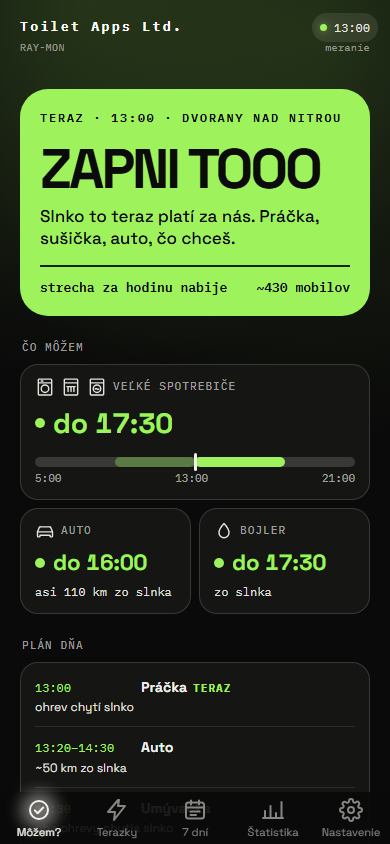
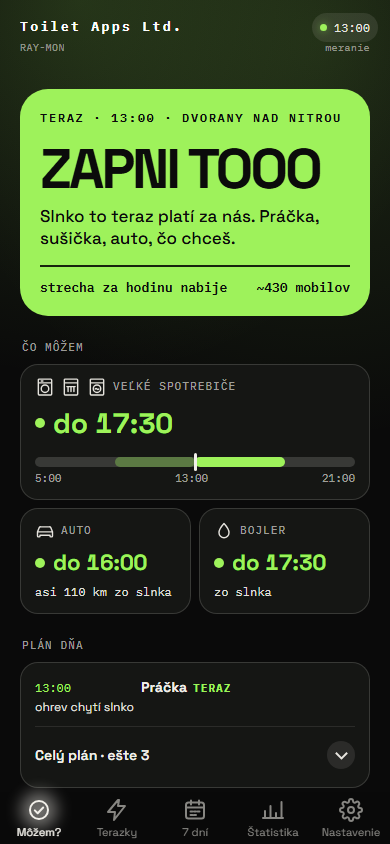
feat: Plán dňa na karte Môžem? zbalený na prvý riadok v oboch appkách (#360)
Doplnok k #359, ktorý bol zlúčený skôr, než sa do neho dostal tento
commit.

## Čo sa mení
**Obe appky: Plán dňa je rozbaľovací.** Zbalený ukáže len prvý riadok
(čo je na rade) a tlačidlo
„Celý plán · ešte N“, rozbalený všetky riadky s pätkou a tlačidlo „Skryť
plán“ (`aria-expanded`).
Pri každom otvorení appky je zbalený – `mozemPlanOpen` je nastavenie
vnútri karty, nie krok navigácie,
a neukladá sa (ako `tzListOpen`). Pri jedinom riadku tlačidlo nie je.
Texty tlačidla sú v jadre
(`PLAN_DNA_LESS`, `planDnaMoreText` v `shared/messages-core.js`).

Obloha má nové tlačidlo `#mz-plan-more` v HTML – zmiešanú cache rieši
`obloha/boot.js`.

## Overenie
- `npm run check` zelené.
- `npm run test:e2e`: 375 prešlo (zbalený stav, rozbalenie a zbalenie,
fokus na tlačidle po Enter, Plán dňa podľa spotrebičov doma).
- `npm run screenshots`: zmenila sa `docs/img/mozem.png`.
- Strom je zhodný s tým, na ktorom testy bežali (cherry-pick na `main`
bez rozdielu).

🤖 Generated with [Claude Code](https://claude.com/claude-code)

Changed region(s): [[0.0923, 0.8626, 0.3692, 0.9242], [0.3692, 0.8626, 0.4615, 0.8934], [0.8615, 0.8934, 0.8923, 0.9242]]

diff --git a/web/render/mozem.js b/web/render/mozem.js
@@ -3,7 +3,7 @@
 // do #mozem-body, panel je dialóg v index.html. Počíta shared/mozem.js, texty sú v shared/messages.js.
 
 import { escapeHtml, minutesToTimeStr } from '../../shared/format.js';
-import { MOZEM_SKY_TEXTS, NO_LIVE_FACT, PLAN_DNA_NOW, PLAN_DNA_TITLE } from '../../shared/messages.js';
+import { MOZEM_SKY_TEXTS, NO_LIVE_FACT, PLAN_DNA_LESS, PLAN_DNA_NOW, PLAN_DNA_TITLE, planDnaMoreText } from '../../shared/messages.js';
 import { mozemModel, mozemSheetOf } from '../../shared/mozem.js';
 import { planDnaModel } from '../../shared/plan-dna.js';
 import { neplatiOf } from '../../shared/pristup.js';
@@ -67,10 +67,16 @@ function tilesHtml(m) {
     );
 }
 
-/** Plán dňa pod dlaždicami: čas, spotrebič a prečo. Bez plánu (načítava sa, bez predpovede) nie je. @param {PlanModel} plan */
-function planHtml(plan) {
+/**
+ * Plán dňa pod dlaždicami: čas, spotrebič a prečo. Bez plánu (načítava sa, bez predpovede) nie je.
+ * Zbalený ukáže len prvý riadok (čo je na rade) a tlačidlo, ktoré rozbalí ostatné aj s pätkou.
+ * @param {PlanModel} plan @param {boolean} open
+ */
+function planHtml(plan, open) {
     if (!plan || !plan.rows.length) return '';
-    const rows = plan.rows.map(
+    const more = plan.rows.length - 1;
+    const shown = open || !more ? plan.rows : plan.rows.slice(0, 1);
+    const rows = shown.map(
         (r) =>
             `<li data-tone="${r.tone}"><span class="mozem-plan-t">${escapeHtml(r.time)}</span>` +
             `<span class="mozem-plan-n">${escapeHtml(r.name)}${r.now ? `<em>${escapeHtml(PLAN_DNA_NOW)}</em>` : ''}</span>` +
@@ -78,17 +84,23 @@ function planHtml(plan) {
     );
     return (
         `<section class="mozem-plan" aria-labelledby="mozem-plan-ttl"><h3 id="mozem-plan-ttl" class="mozem-plan-ttl">${escapeHtml(PLAN_DNA_TITLE)}</h3>` +
-        `<div class="mozem-plan-box"><ol class="mozem-plan-list">${rows.join('')}</ol><p class="mozem-plan-note">${escapeHtml(plan.note)}</p></div></section>`
+        `<div class="mozem-plan-box"><ol id="mozem-plan-list" class="mozem-plan-list">${rows.join('')}</ol>` +
+        (open || !more ? `<p class="mozem-plan-note">${escapeHtml(plan.note)}</p>` : '') +
+        (more
+            ? `<button type="button" class="mozem-plan-more" data-mozem-plan aria-expanded="${open}" aria-controls="mozem-plan-list">` +
+              `<span>${escapeHtml(open ? PLAN_DNA_LESS : planDnaMoreText(more))}</span><span class="tz-chev" aria-hidden="true"></span></button>`
+            : '') +
+        `</div></section>`
     );
 }
 
 /**
  * Hlavná obrazovka karty z modelu. `kick` je riadok nad slovom („Teraz · 13:00 · Dvorany“),
- * `plan` plán dňa pod dlaždicami.
- * @param {MozemModel} m @param {string} kick @param {PlanModel} [plan]
+ * `plan` plán dňa pod dlaždicami, `planOpen` či je rozbalený.
+ * @param {MozemModel} m @param {string} kick @param {PlanModel} [plan] @param {boolean} [planOpen]
  */
-export function mozemHtml(m, kick, plan = null) {
-    return heroHtml(m, kick) + tilesHtml(m) + (m.list ? planHtml(plan) : '');
+export function mozemHtml(m, kick, plan = null, planOpen = false) {
+    return heroHtml(m, kick) + tilesHtml(m) + (m.list ? planHtml(plan, planOpen) : '');
 }
 
 /** Riadky panelu skupiny: meno, krátka odpoveď a prečo. @param {MozemModel['items']} rows */
@@ -172,6 +184,10 @@ export function closeMozemSheet(dom) {
 export function renderMozem(state, dom) {
     const m = modelOf(state);
     const kick = `Teraz · ${minutesToTimeStr(localMinutes(state.now, state.site.timezone))} · ${state.site.name}`;
-    writeHtml(dom.mozemBody, mozemHtml(m, kick, planDnaModel(state, { devices: state.oznamenia.devices })), 'mozemBody');
+    writeHtml(
+        dom.mozemBody,
+        mozemHtml(m, kick, planDnaModel(state, { devices: state.oznamenia.devices }), state.mozemPlanOpen),
+        'mozemBody',
+    );
     renderSheet(mozemSheetOf(m, state.mozemItem), dom);
 }

diff --git a/test/e2e/app.spec.js b/test/e2e/app.spec.js
@@ -41,7 +41,15 @@ import { doplnSucty, suctyZdroj } from '../../shared/sucty.js';
 import { mozemModel } from '../../shared/mozem.js';
 import { planDnaModel } from '../../shared/plan-dna.js';
 import { summaryModel } from '../../shared/summary.js';
-import { dayWindowCard, MOZEM_SKY_TEXTS, mozemListTitle, terazTypicalText, weekMessage } from '../../shared/messages.js';
+import {
+    dayWindowCard,
+    MOZEM_SKY_TEXTS,
+    mozemListTitle,
+    PLAN_DNA_LESS,
+    planDnaMoreText,
+    terazTypicalText,
+    weekMessage,
+} from '../../shared/messages.js';
 import { settingsFromLink, shareUrl, startFromLink, toUser, typicalSettings } from '../../shared/settings.js';
 import { buildForecast, localDateKey, localMinutes, sunTimes } from '../../shared/solar.js';
 import { LINK_ERRORS } from '../../shared/setup-texts.js';
@@ -3092,16 +3100,32 @@ test.describe('karta Môžem?', () => {
         expect(errors).toEqual([]);
     });
 
-    test('o 13:00 plán dňa pod dlaždicami podľa modelu, bez ceny pri spotrebičoch', async ({ page }) => {
+    test('o 13:00 plán dňa pod dlaždicami podľa modelu: zbalený na prvý riadok, tlačidlo rozbalí a zbalí, bez ceny pri spotrebičoch', async ({
+        page,
+    }) => {
         const errors = await openApp(page);
         await page.locator('#nav-mozem').click();
         await ocakavajKartu(page, 'mozem');
         const plan = planDnaModel({ ...OWNER, now: FIXED_NOW, loading: false, pv, forecast: forecastAt(FIXED_NOW) });
         const rows = plan?.rows ?? [];
-        expect(rows.length).toBeGreaterThan(0);
+        expect(rows.length).toBeGreaterThan(1);
+        const more = page.locator('.mozem-plan-more');
+        const riadky = rows.map((r) => `${r.time}${r.name}${r.now ? 'teraz' : ''}${r.why}`);
         await expect(page.locator('#mozem-plan-ttl')).toHaveText('Plán dňa');
-        await expect(page.locator('.mozem-plan-list li')).toHaveText(rows.map((r) => `${r.time}${r.name}${r.now ? 'teraz' : ''}${r.why}`));
+        await expect(page.locator('.mozem-plan-list li')).toHaveText(riadky.slice(0, 1));
+        await expect(page.locator('.mozem-plan-note')).toHaveCount(0);
+        await expect(more).toHaveText(planDnaMoreText(rows.length - 1));
+        await expect(more).toHaveAttribute('aria-expanded', 'false');
+        // Z klávesnice: fokus ostane na tlačidle aj po prekreslení karty.
+        await more.focus();
+        await page.keyboard.press('Enter');
+        await expect(page.locator('.mozem-plan-list li')).toHaveText(riadky);
         await expect(page.locator('.mozem-plan-note')).toHaveText(plan?.note ?? '');
+        await expect(more).toHaveText(PLAN_DNA_LESS);
+        await expect(more).toHaveAttribute('aria-expanded', 'true');
+        await expect(more).toBeFocused();
+        await more.click();
+        await expect(page.locator('.mozem-plan-list li')).toHaveCount(1);
         for (const r of rows.filter((x) => x.id !== 'auto')) expect(r.why, r.id).not.toContain('€');
         expect(errors).toEqual([]);
     });

diff --git a/obloha/web/render/mozem.js b/obloha/web/render/mozem.js
@@ -3,7 +3,7 @@
 // shared/mozem-sky.js a texty sú v shared/messages.js - tu sa len zapisuje do DOM.
 
 import { escapeHtml, minutesToTimeStr } from '../../../shared/format.js';
-import { PLAN_DNA_NOW, PLAN_DNA_TITLE, voiceTexts } from '../../../shared/messages-core.js';
+import { PLAN_DNA_LESS, PLAN_DNA_NOW, PLAN_DNA_TITLE, planDnaMoreText, voiceTexts } from '../../../shared/messages-core.js';
 import { mozemSheetOf } from '../../../shared/mozem.js';
 import { mozemSkyModel } from '../../../shared/mozem-sky.js';
 import { shows } from '../state.js';
@@ -112,8 +112,11 @@ function rowsHtml(rows) {
         .join('');
 }
 
-/** Hlavná časť karty. @param {Model} m @param {Dom} dom @param {import('../../../shared/messages.js').Voice} voice */
-function renderCard(m, dom, voice) {
+/**
+ * Hlavná časť karty. @param {Model} m @param {Dom} dom @param {import('../../../shared/messages.js').Voice} voice
+ * @param {boolean} planOpen je Plán dňa rozbalený?
+ */
+function renderCard(m, dom, voice, planOpen) {
     const MOZEM_SKY_TEXTS = voiceTexts(voice).MOZEM_SKY_TEXTS;
     show(dom.mzArc, !!m.arc);
     if (m.arc) setHtml(dom.mzArc, arcSvg(m.arc, m.state === 'offline'));
@@ -140,13 +143,23 @@ function renderCard(m, dom, voice) {
     dom.mzList.classList.toggle('est', !!m.list?.estimate);
     setText(dom.mzListTitle, m.list ? m.list.title : '');
     setHtml(dom.mzItems, m.list ? tilesHtml(m.groups) : '');
-    renderPlan(m.list ? m.plan : null, dom);
+    renderPlan(m.list ? m.plan : null, planOpen, dom);
 }
 
-/** Plán dňa pod dlaždicami: čas, spotrebič a prečo. Bez plánu sa skryje. @param {Model['plan']} plan @param {Dom} dom */
-function renderPlan(plan, dom) {
-    const rows = plan ? plan.rows : [];
-    show(dom.mzPlan, rows.length > 0);
+/**
+ * Plán dňa pod dlaždicami: čas, spotrebič a prečo. Bez plánu sa skryje. Zbalený ukáže len prvý
+ * riadok (čo je na rade) a tlačidlo, ktoré rozbalí ostatné aj s pätkou.
+ * @param {Model['plan']} plan @param {boolean} open @param {Dom} dom
+ */
+function renderPlan(plan, open, dom) {
+    const all = plan ? plan.rows : [];
+    const more = all.length - 1;
+    const rows = open || more < 1 ? all : all.slice(0, 1);
+    show(dom.mzPlan, all.length > 0);
+    show(dom.mzPlanMore, more > 0);
+    show(dom.mzPlanNote, open || more < 1);
+    dom.mzPlanMore.setAttribute('aria-expanded', String(open));
+    setText(dom.mzPlanMoreText, open ? PLAN_DNA_LESS : planDnaMoreText(more));
     setText(dom.mzPlanTitle, PLAN_DNA_TITLE);
     setHtml(
         dom.mzPlanRows,
@@ -244,7 +257,7 @@ export function renderMozem(state, dom) {
         return renderSheet(null, dom);
     }
     const m = mozemSkyModel(state, { online: state.online, voice: state.voice, devices: state.oznamenia.devices });
-    renderCard(m, dom, state.voice);
+    renderCard(m, dom, state.voice, state.mozemPlanOpen);
     renderAnnounce(m, dom);
     renderSheet(mozemSheetOf(m, state.mozemItem), dom, state.voice);
 }

diff --git a/test/e2e/obloha.spec.js b/test/e2e/obloha.spec.js
@@ -18,7 +18,7 @@ import {
     TARIFF,
     WORKER_PV_URL,
 } from '../../shared/config.js';
-import { MOZEM_WORDS } from '../../shared/messages.js';
+import { MOZEM_WORDS, PLAN_DNA_LESS, planDnaMoreText } from '../../shared/messages.js';
 import { mozemSkyModel } from '../../shared/mozem-sky.js';
 import { cellAt, chartX, DAY_CHART, planCells } from '../../shared/day-chart.js';
 import { dayPlan } from '../../shared/day-plan.js';
@@ -711,13 +711,26 @@ test.describe('karta Môžem?', () => {
     }
 
     for (const hm of ['09:00', '13:00', '21:00']) {
-        test(`o ${hm} plán dňa pod dlaždicami podľa modelu, bez ceny pri spotrebičoch`, async ({ page }) => {
+        test(`o ${hm} plán dňa pod dlaždicami podľa modelu: zbalený na prvý riadok, tlačidlo rozbalí, bez ceny pri spotrebičoch`, async ({
+            page,
+        }) => {
             const errors = await openObloha(page, { time: at(hm) });
             const plan = modelKarty(at(hm)).plan;
             const rows = plan?.rows ?? [];
+            const riadky = rows.map((r) => `${r.time}${r.name}${r.now ? 'teraz' : ''}${r.why}`);
+            const more = page.locator('#mz-plan-more');
             await expect(page.locator('#mz-plan')).toBeVisible();
             await expect(page.locator('#mz-plan-title')).toHaveText('Plán dňa');
-            await expect(page.locator('#mz-plan-rows li')).toHaveText(rows.map((r) => `${r.time}${r.name}${r.now ? 'teraz' : ''}${r.why}`));
+            if (rows.length > 1) {
+                await expect(page.locator('#mz-plan-rows li')).toHaveText(riadky.slice(0, 1));
+                await expect(page.locator('#mz-plan-note')).toBeHidden();
+                await expect(more).toHaveText(planDnaMoreText(rows.length - 1));
+                await expect(more).toHaveAttribute('aria-expanded', 'false');
+                await more.click();
+                await expect(more).toHaveText(PLAN_DNA_LESS);
+                await expect(more).toHaveAttribute('aria-expanded', 'true');
+            } else await expect(more).toBeHidden();
+            await expect(page.locator('#mz-plan-rows li')).toHaveText(riadky);
             await expect(page.locator('#mz-plan-rows .row-t')).toHaveText(rows.map((r) => r.time));
             await expect(page.locator('#mz-plan-note')).toHaveText(plan?.note ?? '');
             for (const r of rows.filter((x) => x.id !== 'auto')) expect(r.why, r.id).not.toContain('€');

diff --git a/obloha/web/state.js b/obloha/web/state.js
@@ -11,7 +11,8 @@ import { setupInit } from '../../shared/setup-flow.js';
 /**
  * Stav. `mozemItem` je vec karty Môžem?, ktorej panel je otvorený (null = žiadny),
  * `terazPreview` čas náhľadu na grafe karty Teraz (minúta dňa, null = teraz),
- * `terazPage` stránka pásu odporúčaní pod ním, `tzListOpen` otvorený zoznam pod grafom (na začiatku zatvorený),`weekDetail` otvorený detail karty 7 dní (deň, týždeň,
+ * `terazPage` stránka pásu odporúčaní pod ním, `tzListOpen` otvorený zoznam pod grafom (na začiatku zatvorený),
+ * `mozemPlanOpen` rozbalený Plán dňa na karte Môžem? (na začiatku zbalený na prvý riadok),`weekDetail` otvorený detail karty 7 dní (deň, týždeň,
  * null = prehľad dní) a `weekDay` deň v ňom (index v predpovedi), `statsPeriod` obdobie karty Štatistika,
  * `online`, či má telefón internet - podľa toho karta bez dát povie prečo, `startPanel` karta, na ktorej
  * sa appka na tomto telefóne otvára, a `incoming` nastavenie z otvoreného odkazu, ktoré čaká na
@@ -34,6 +35,7 @@ import { setupInit } from '../../shared/setup-flow.js';
  *   terazPreview: number | null,
  *   terazPage: number,
  *   tzListOpen: boolean,
+ *   mozemPlanOpen: boolean,
  *   weekDetail: WeekDetail | null,
  *   weekDay: number,
  *   statsPeriod: import('../../shared/stats.js').StatsPeriod,
@@ -123,6 +125,7 @@ export function initialState(
         terazPreview: null,
         terazPage: 0,
         tzListOpen: false,
+        mozemPlanOpen: false,
         weekDetail: null,
         weekDay: 0,
         statsPeriod: /** @type {import('../../shared/stats.js').StatsPeriod} */ ('dnes'),

diff --git a/obloha/index.html b/obloha/index.html
@@ -89,11 +89,15 @@
                     <h2 id="mz-list-title" class="glass-ttl"></h2>
                     <div id="mz-items" class="tiles"></div>
                 </section>
-                <!-- Plán dňa: poradie spotrebičov na dnešné slnko (shared/plan-dna.js). Riadky skladá render. -->
+                <!-- Plán dňa: poradie spotrebičov na dnešné slnko (shared/plan-dna.js). Riadky skladá render;
+                     zbalený ukáže len prvý, tlačidlo rozbalí ostatné aj s pätkou. -->
                 <section id="mz-plan" class="glass plan hidden" aria-labelledby="mz-plan-title">
                     <h2 id="mz-plan-title" class="glass-ttl"></h2>
                     <ol id="mz-plan-rows" class="plan-rows"></ol>
                     <p id="mz-plan-note" class="plan-note"></p>
+                    <button type="button" id="mz-plan-more" class="plan-more hidden" aria-expanded="false" aria-controls="mz-plan-rows">
+                        <span id="mz-plan-more-text"></span><span class="chev" aria-hidden="true"></span>
+                    </button>
                 </section>
             </section>
             <!-- Karta Teraz: texty, graf aj pás odporúčaní skladá render (web/render/teraz.js)

diff --git a/test/e2e/oznamenia.spec.js b/test/e2e/oznamenia.spec.js
@@ -74,6 +74,7 @@ test.describe('oznámenia: súčasná appka', () => {
         await expect.poll(() => ulozene(page)).toEqual({ on: false, hour: 7, devices: ['pracka', 'umyvacka', 'susicka'] });
         await page.locator('#nav-mozem').click();
         const rows = plan(['pracka', 'umyvacka', 'susicka'])?.rows ?? [];
+        await page.locator('.mozem-plan-more').click();
         await expect(page.locator('.mozem-plan-list li')).toHaveText(rows.map((r) => `${r.time}${r.name}${r.now ? 'teraz' : ''}${r.why}`));
         await expect(page.locator('.mozem-plan-list')).not.toContainText('Auto');
     });
@@ -116,6 +117,7 @@ test.describe('oznámenia: Živá obloha', () => {
             .toEqual({ on: false, hour: 8, devices: ['pracka', 'umyvacka', 'susicka', 'auto', 'bojler'] });
         await page.locator('#nav-mozem').click();
         const rows = plan(['pracka', 'umyvacka', 'susicka', 'auto', 'bojler'])?.rows ?? [];
+        await page.locator('#mz-plan-more').click();
         await expect(page.locator('#mz-plan-rows li')).toHaveText(rows.map((r) => `${r.time}${r.name}${r.now ? 'teraz' : ''}${r.why}`));
     });
 

diff --git a/web/state.js b/web/state.js
@@ -29,6 +29,7 @@ export { isWelcome, savedSettings, setupDraft } from '../shared/setup-flow.js';
  *   weekDetail: 'day' | 'week' | null,
  *   terazPage: number,
  *   tzListOpen: boolean,
+ *   mozemPlanOpen: boolean,
  *   statsPeriod: import('../shared/stats.js').StatsPeriod,
  *   dayLog: import('../shared/daylog.js').DayLog,
  *   mozemItem: string | null,
@@ -114,6 +115,9 @@ export function initialState(now, layout, { saved = null, site = null, incoming 
         // Zoznam pod grafom dňa na karte Terazky: na začiatku zatvorený. Nastavenie vnútri karty,
         // nie krok navigácie, a neukladá sa.
         tzListOpen: false,
+        // Plán dňa na karte Môžem?: na začiatku zbalený na prvý riadok. Nastavenie vnútri karty,
+        // nie krok navigácie, a neukladá sa.
+        mozemPlanOpen: false,
         // Obdobie na karte Štatistika. Nastavenie vnútri karty, nie krok navigácie - Späť sa
         // naň nevracia, rovnako ako na vybraný deň.
         statsPeriod: /** @type {import('../shared/stats.js').StatsPeriod} */ ('dnes'),

diff --git a/obloha/web/mozem-interactions.js b/obloha/web/mozem-interactions.js
@@ -1,4 +1,4 @@
-// Poslucháče karty Môžem? novej appky: panel veci či skupiny a „Skúsiť znova“.
+// Poslucháče karty Môžem? novej appky: panel veci či skupiny, rozbalenie Plánu dňa a „Skúsiť znova“.
 // Každý končí volaním setState (alebo krokom v histórii); kreslí render/mozem.js.
 
 import { stepBack } from './nav-back.js';
@@ -20,6 +20,7 @@ export function initMozem(store, dom, refresh) {
         // Panel robí z Môžem? aktívny stĺpec prehľadu (na telefóne je Môžem? aktívna karta).
         if (row instanceof HTMLElement && row.dataset.item) store.setState({ mozemItem: row.dataset.item, panel: 'mozem' });
     });
+    dom.mzPlanMore.addEventListener('click', () => store.setState({ mozemPlanOpen: !store.get().mozemPlanOpen }));
     dom.mzSheetX.addEventListener('click', () => closeSheet(store));
     // Ťuknutie vedľa panelu (na stmavenú stránku) trafí samotný dialóg, nie jeho obsah.
     dom.mzSheet.addEventListener('click', (e) => e.target === dom.mzSheet && closeSheet(store));

diff --git a/web/mozem-interactions.js b/web/mozem-interactions.js
@@ -1,4 +1,4 @@
-// Poslucháče karty Môžem?: panel veci či skupiny. Každý končí volaním setState (alebo krokom
+// Poslucháče karty Môžem?: panel veci či skupiny a rozbalenie Plánu dňa. Každý končí volaním setState (alebo krokom
 // v histórii cez backTo), kreslí web/render/mozem.js.
 
 import { backTo } from './history.js';
@@ -16,6 +16,7 @@ export function initMozem(store, dom) {
         const target = /** @type {HTMLElement} */ (e.target);
         const tile = target.closest('[data-mozem-item]');
         if (tile instanceof HTMLElement && tile.dataset.mozemItem) store.setState({ mozemItem: tile.dataset.mozemItem });
+        if (target.closest('[data-mozem-plan]')) store.setState({ mozemPlanOpen: !store.get().mozemPlanOpen });
     });
     const close = () => backTo(store, { mozemItem: null });
     dom.mozemSheetX.addEventListener('click', close);

diff --git a/obloha/style.css b/obloha/style.css
@@ -668,6 +668,32 @@ button.live[aria-expanded='true'] {
     font-size: 0.8125rem;
     color: var(--dim);
 }
+/* Tlačidlo zbaleného či rozbaleného plánu, s tou istou šípkou ako zoznam pod grafom karty Teraz. */
+.plan-more {
+    width: 100%;
+    min-height: 44px;
+    display: flex;
+    align-items: center;
+    justify-content: space-between;
+    gap: 8px;
+    padding: 8px 0 0;
+    border: 0;
+    border-top: 1px solid rgba(255, 255, 255, 0.14);
+    background: none;
+    color: inherit;
+    font: inherit;
+    font-size: 0.9375rem;
+    font-weight: 700;
+    text-align: left;
+    cursor: pointer;
+}
+.plan-more .chev {
+    width: 28px;
+    height: 28px;
+}
+.plan-more[aria-expanded='true'] .chev {
+    transform: rotate(180deg);
+}
 /* Pás dňa: okno slnka, jeho uplynulá časť stlmená, biela čiarka je teraz. */
 .tile-bar {
     position: relative;

diff --git a/style.css b/style.css
@@ -4240,6 +4240,27 @@ b {
     font-size: var(--fs-sm);
     color: var(--ink-45);
 }
+/* Tlačidlo zbaleného či rozbaleného plánu; zbalený plán je bez pätky, tlačidlo stojí hneď pod riadkom. */
+.mozem-plan-more {
+    width: 100%;
+    min-height: 44px;
+    display: flex;
+    align-items: center;
+    justify-content: space-between;
+    gap: var(--sp-2);
+    margin-top: 4px;
+    padding: 4px 0 0;
+    font-size: var(--fs-md);
+    font-weight: 600;
+    text-align: left;
+}
+.mozem-plan-more .tz-chev {
+    width: 28px;
+    height: 28px;
+}
+.mozem-plan-more[aria-expanded='true'] .tz-chev {
+    transform: rotate(180deg);
+}
 /* Pás dňa v širokej dlaždici: okno so slnkom, uplynulá časť stlmená, značka „teraz“. */
 .mozem-tile-bar {
     position: relative;
